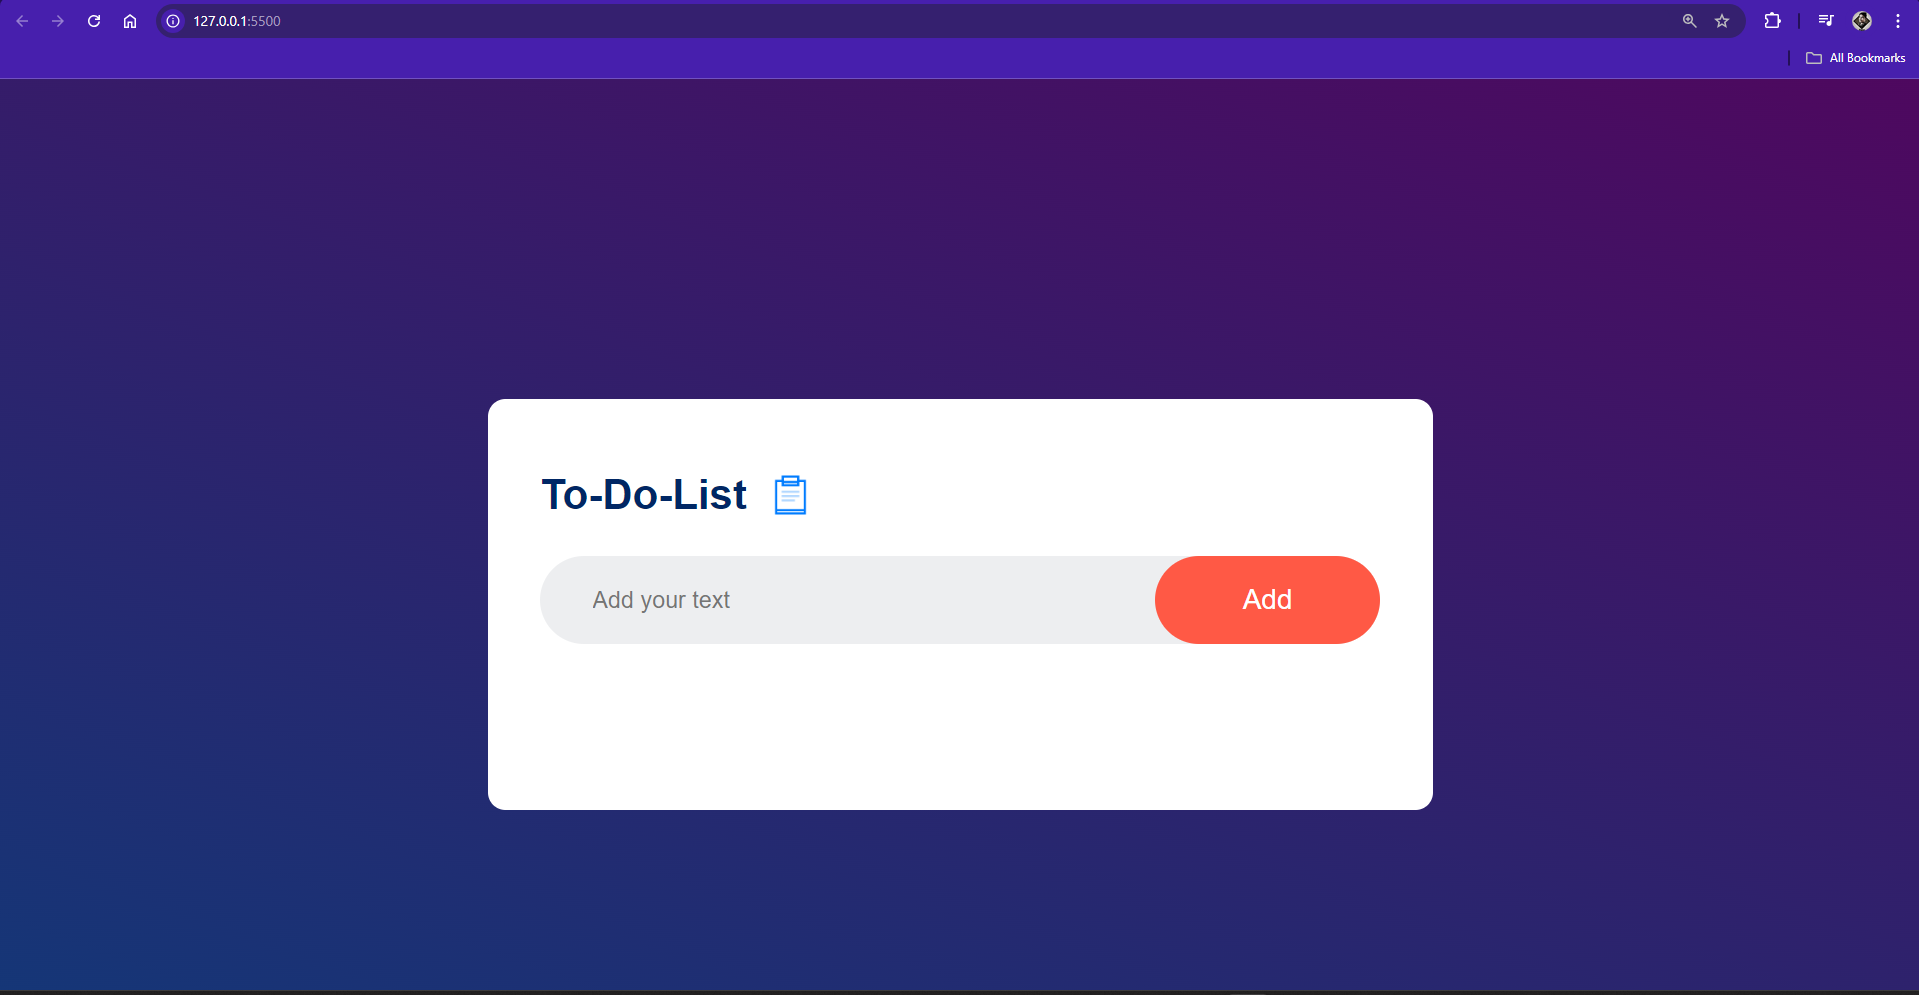
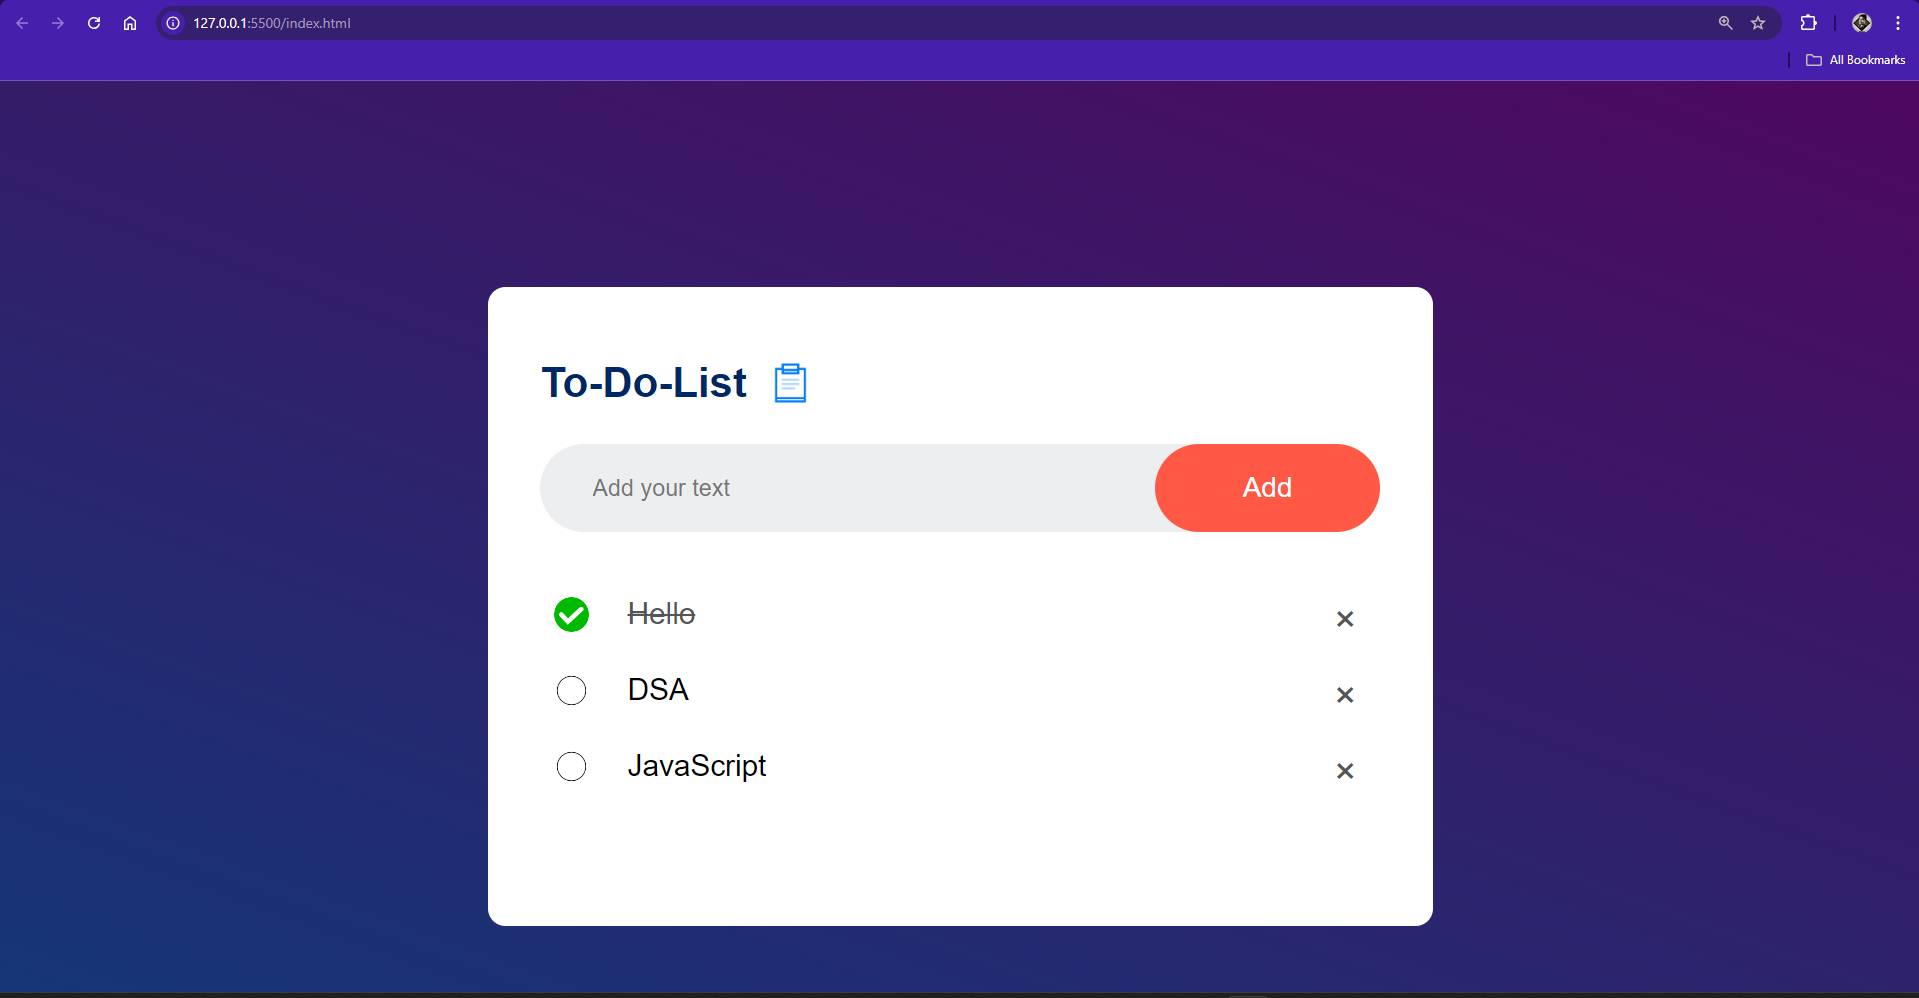
updated

diff --git a/README.md b/README.md
@@ -16,7 +16,7 @@ Here are some screenshots showcasing the To-Do List app in action:
    ![Creating a Tier List](./Screenshots/2.png)
 
 3. **Task Marked as Completed**
-   ![Saved Tier List Example](./Screenshots/1.png)
+   ![Saved Tier List Example](./Screenshots/3.png)
 
 
 Follow these steps to set up the project locally.
